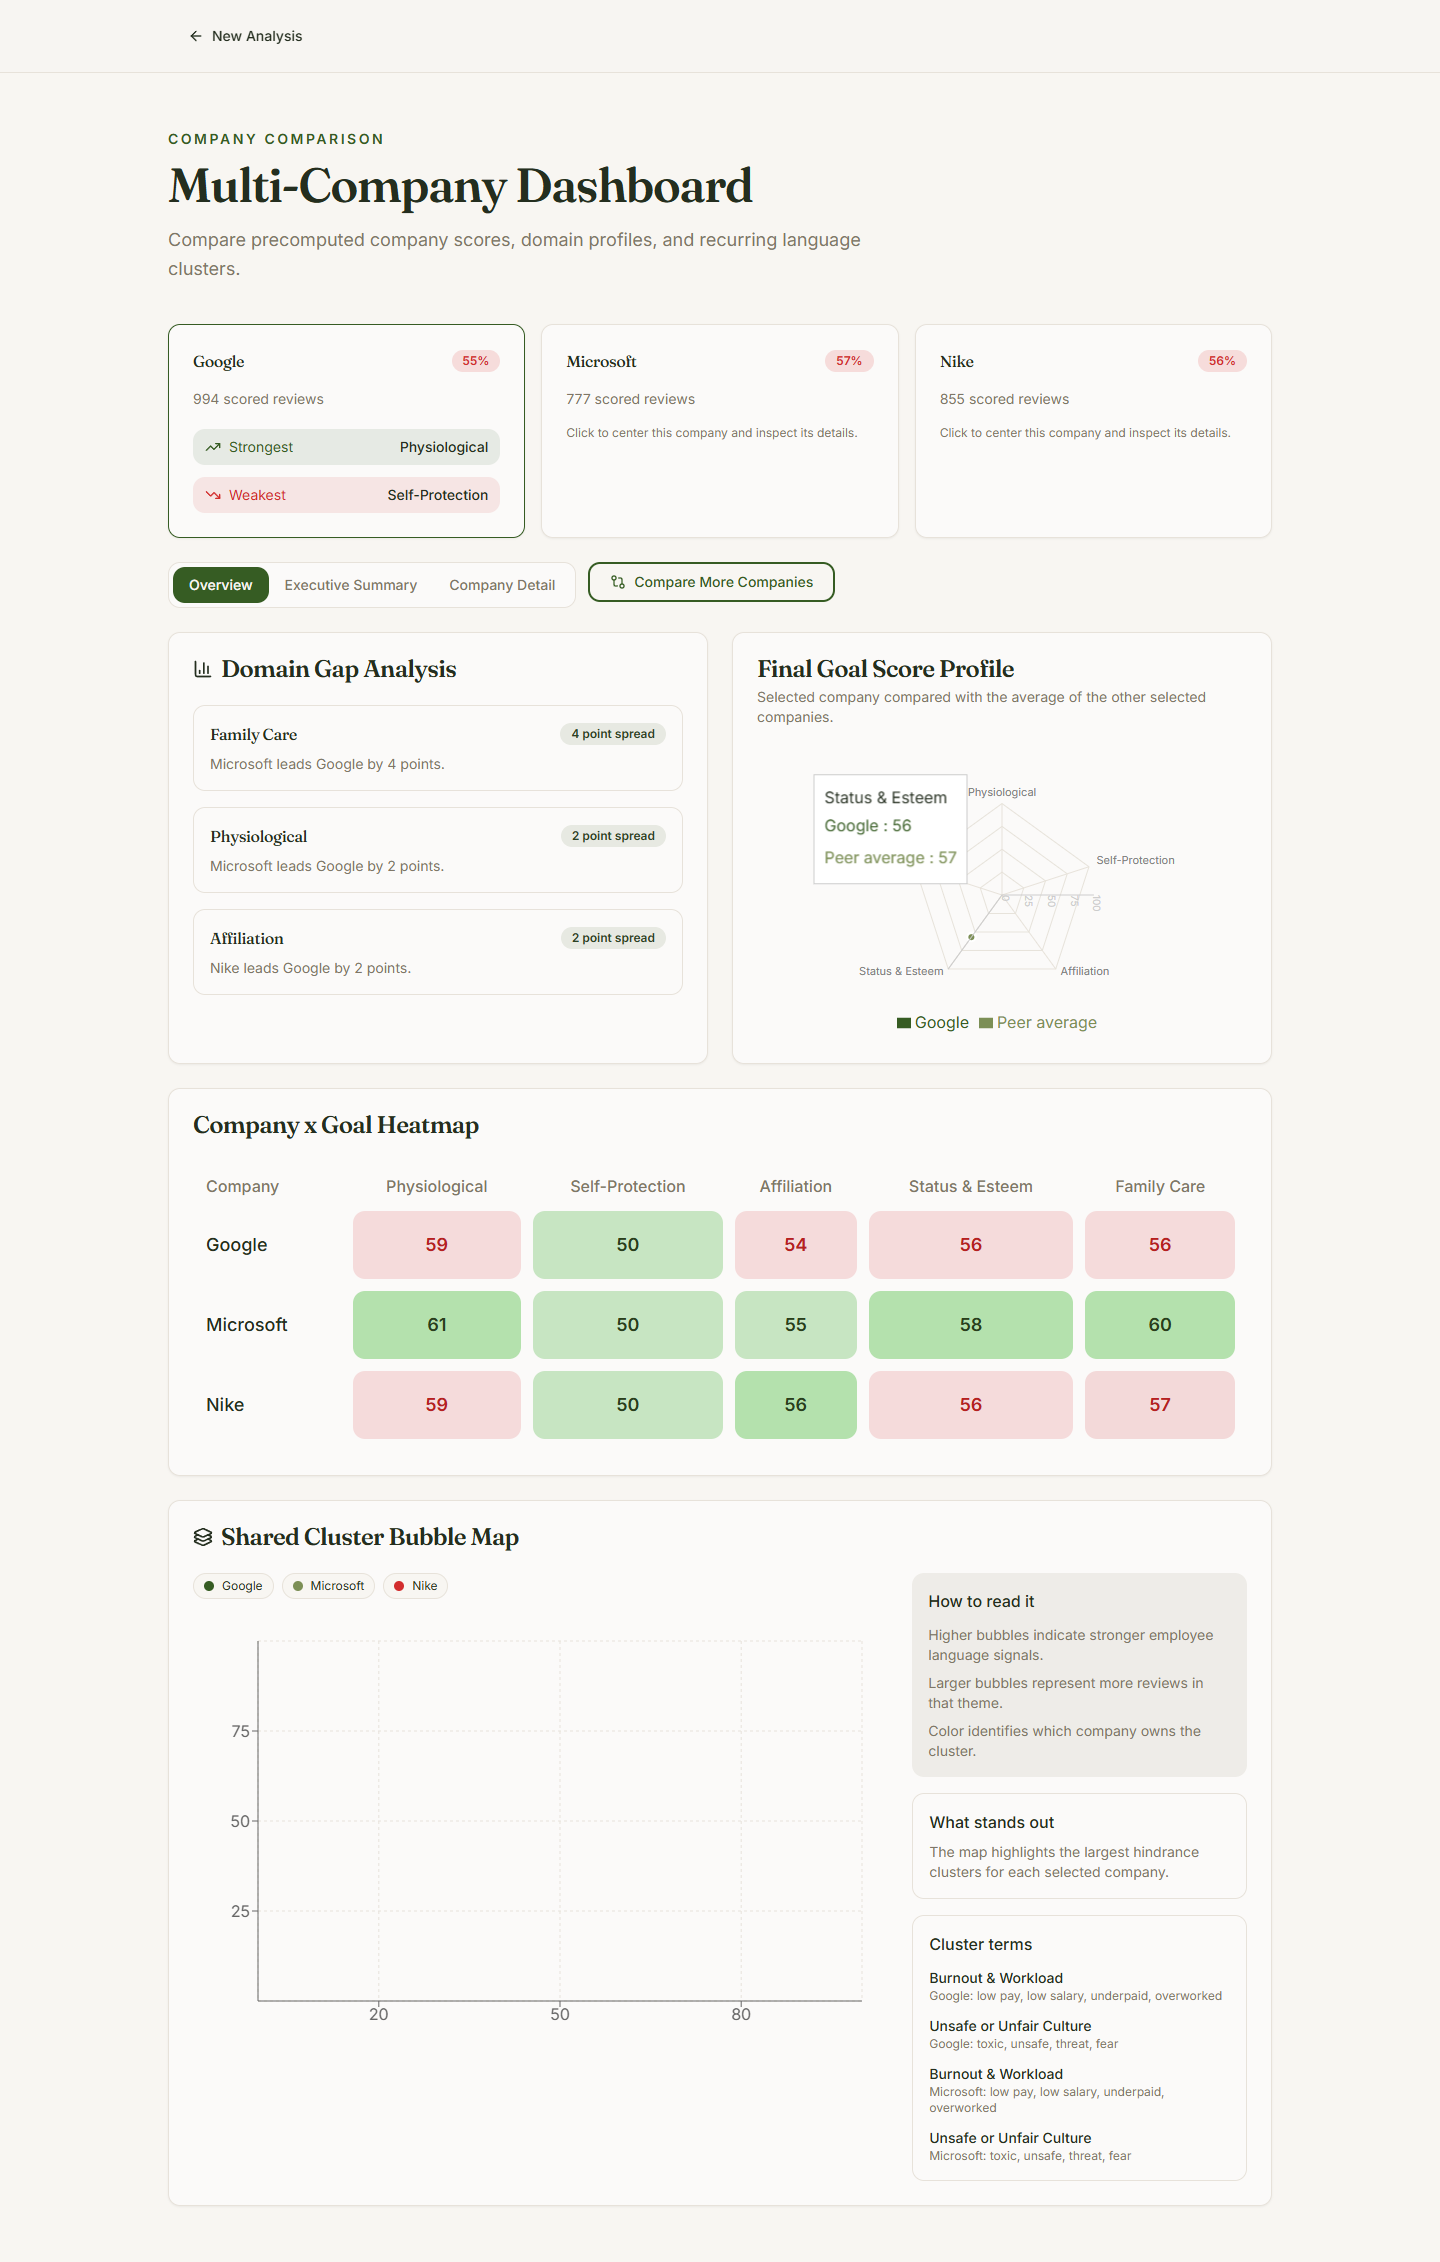
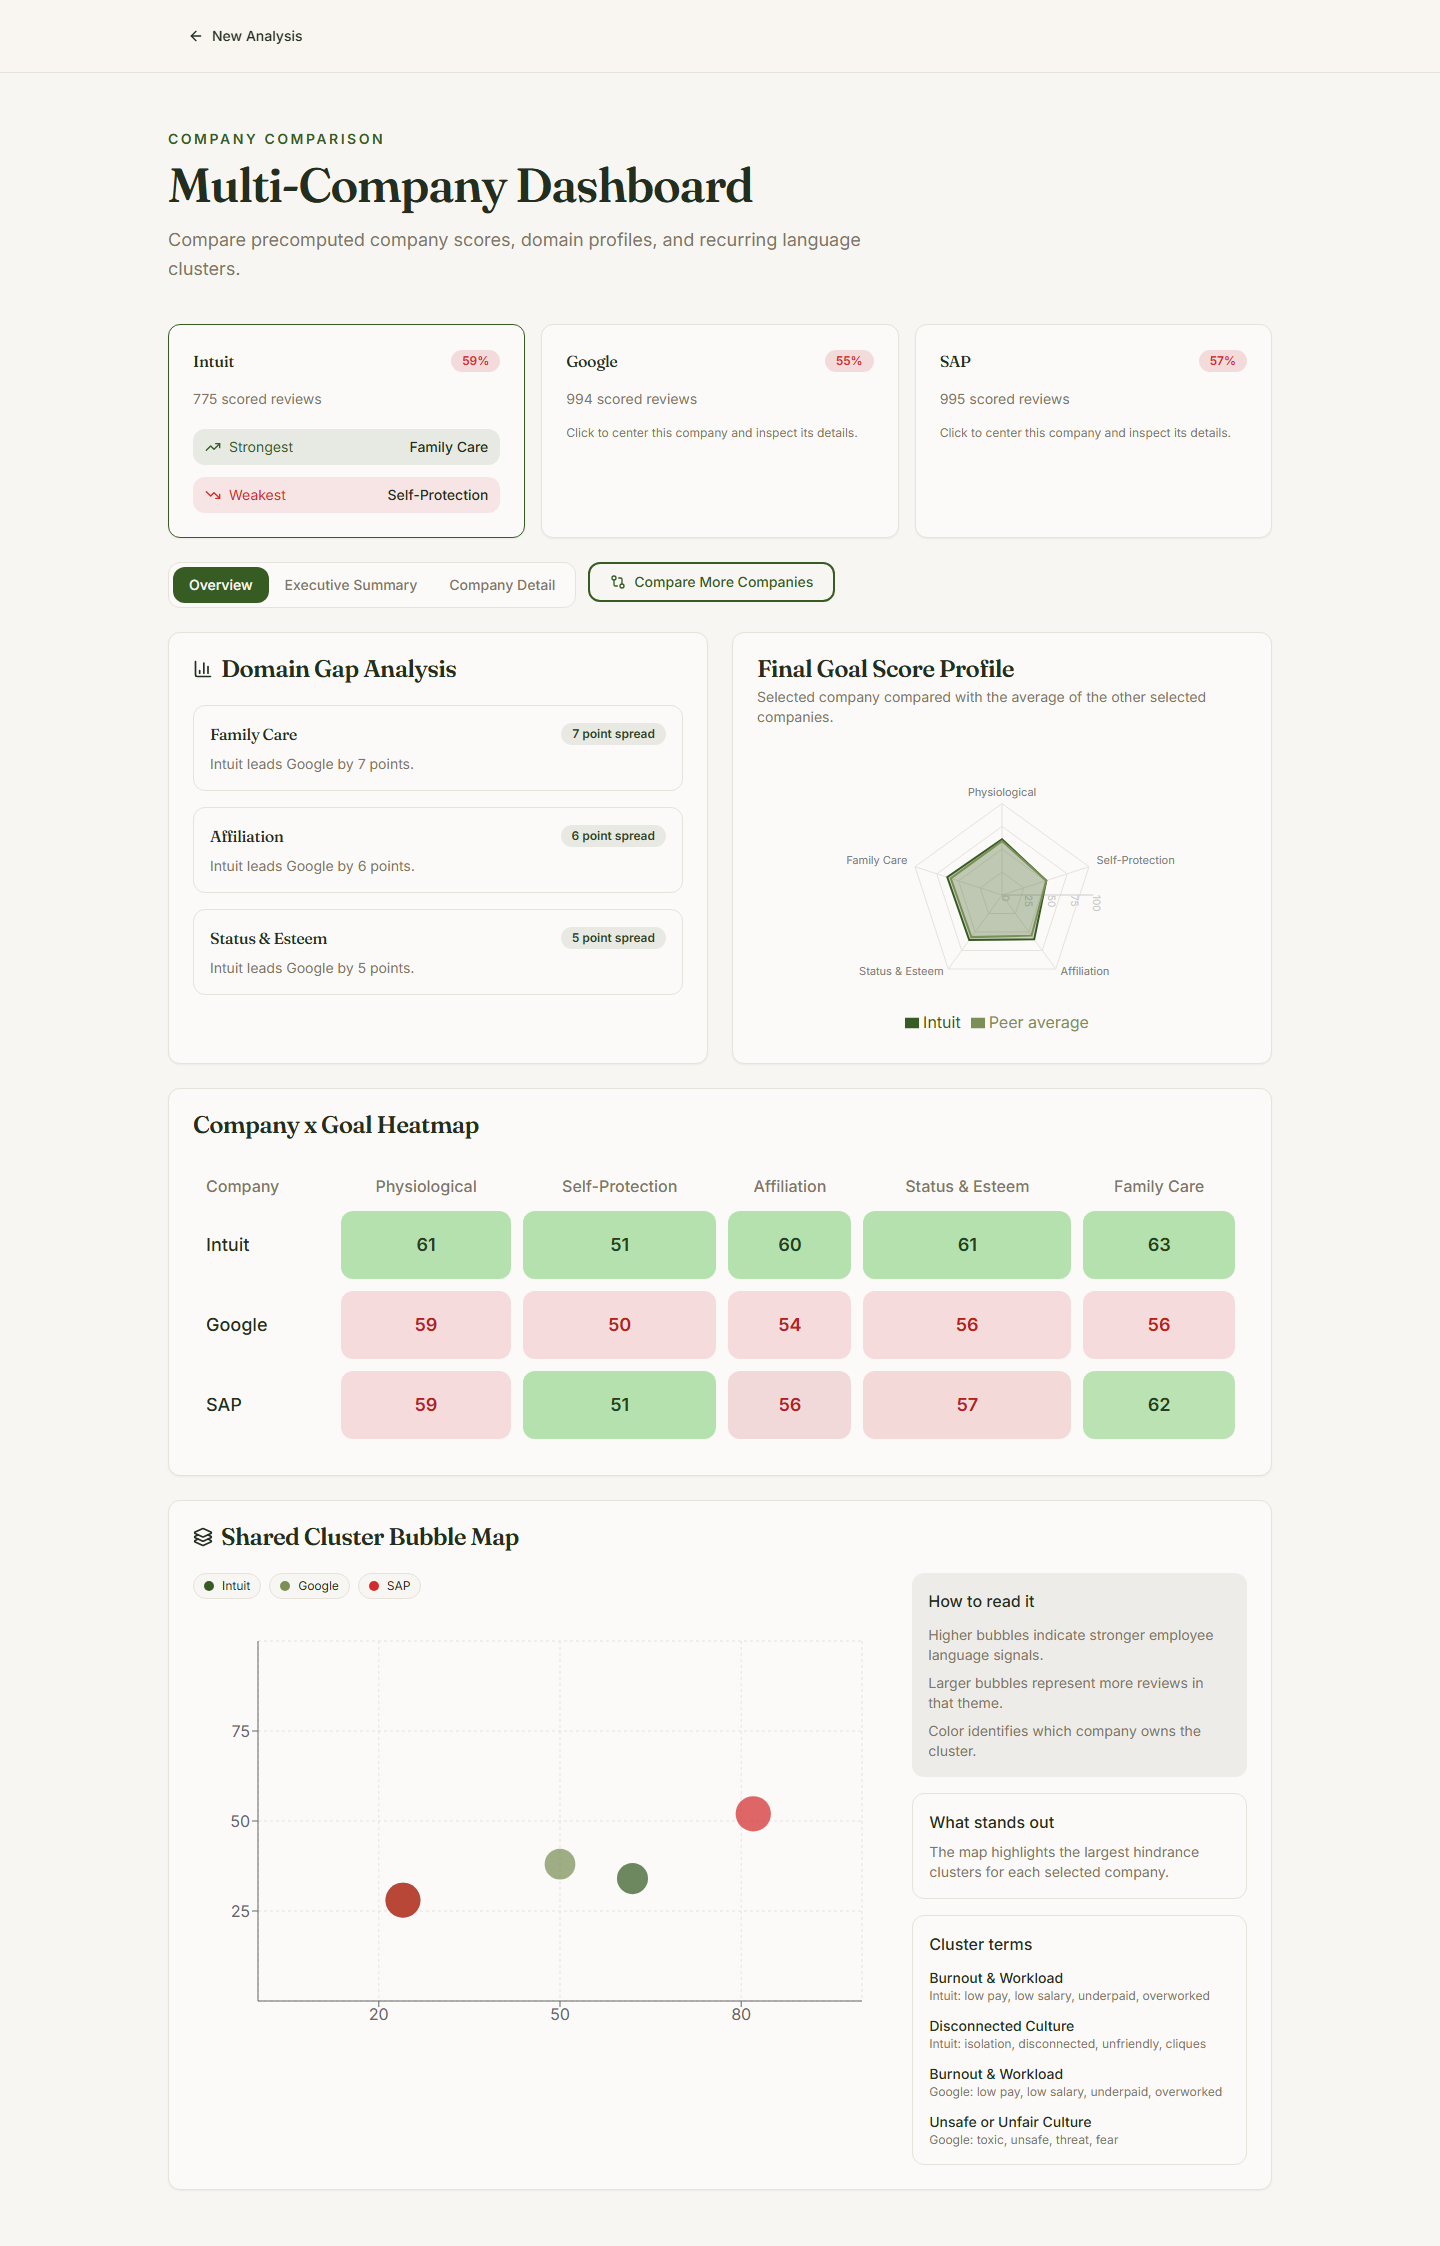
Updated ReadMe

diff --git a/frontend/src/pages/Index.tsx b/frontend/src/pages/Index.tsx
@@ -9,14 +9,10 @@ import { ComparisonResultsPage } from "@/components/ComparisonResultsPage";
 import {
   downloadScoredCompanyFileText,
   generateComparisonRagSummary,
-  downloadJobFileText,
   getScoredCompanyDownloadUrl,
   getScoredCompanyOutputs,
   getScoredCompanyRag,
-  getJobOutputs,
-  getJobStatus,
   sleep,
-  startPipelineJob,
   type ComparisonRagSummary,
 } from "@/lib/backend-api";
 import { AnalysisResult, buildAnalysisResult } from "@/lib/analysis";
@@ -49,100 +45,58 @@ const Index = () => {
     setProcessingStatus("Preparing your company analysis...");
 
     try {
-      try {
-        const cachedOutputs = await getScoredCompanyOutputs(name);
-        const reviewCsvText = await downloadScoredCompanyFileText(
-          cachedOutputs.company_id,
-          "review_scores.csv"
-        );
-        const companyCsvText = await downloadScoredCompanyFileText(
-          cachedOutputs.company_id,
-          "company_scores.csv"
-        );
-        const topicCsvText = cachedOutputs.files.includes("topic_summary.csv")
-          ? await downloadScoredCompanyFileText(cachedOutputs.company_id, "topic_summary.csv")
-          : undefined;
-        const rag = cachedOutputs.files.includes("rag_summary.json")
-          ? await getScoredCompanyRag(cachedOutputs.company_id)
-          : undefined;
-
-        const result = buildAnalysisResult({
-          jobId: `cached-${cachedOutputs.company_id}`,
-          inputCompanyName: name,
-          resolvedCompanyName: cachedOutputs.company_id,
-          reviewCsvText,
-          companyCsvText,
-          topicCsvText,
-          ragSummary: rag?.summary,
-          ragClusters: rag?.clusters,
-          ragInsights: rag?.insights,
-          outputFiles: cachedOutputs.files,
-          downloads: {
-            cleanedReviews: cachedOutputs.files.includes("cleaned_reviews.csv")
-              ? getScoredCompanyDownloadUrl(cachedOutputs.company_id, "cleaned_reviews.csv")
-              : undefined,
-            reviewScores: getScoredCompanyDownloadUrl(cachedOutputs.company_id, "review_scores.csv"),
-            companyScores: getScoredCompanyDownloadUrl(cachedOutputs.company_id, "company_scores.csv"),
-            topicSummary: cachedOutputs.files.includes("topic_summary.csv")
-              ? getScoredCompanyDownloadUrl(cachedOutputs.company_id, "topic_summary.csv")
-              : undefined,
-            topicAssignments: cachedOutputs.files.includes("topic_assignments.csv")
-              ? getScoredCompanyDownloadUrl(cachedOutputs.company_id, "topic_assignments.csv")
-              : undefined,
-          },
-        });
-
-        await sleep(10000);
-        setAnalysis(result);
-        setAppState("results");
-        return;
-      } catch {
-        setProcessingStatus("Analyzing fresh review data...");
-      }
-
-      const run = await startPipelineJob(name);
-      setActiveJobId(run.job_id);
-
-      let finalStatus = null as Awaited<ReturnType<typeof getJobStatus>> | null;
-      for (let attempt = 0; attempt < 360; attempt += 1) {
-        const st = await getJobStatus(run.job_id);
-        finalStatus = st;
-
-        const stage = st.stage?.current ? `Stage: ${st.stage.current}` : "";
-        const msg = st.message || stage || "Pipeline running";
-        setProcessingStatus(msg);
-
-        if (st.status === "succeeded") {
-          break;
-        }
-        if (st.status === "failed") {
-          throw new Error(st.message || "Pipeline failed.");
-        }
-        await sleep(2000);
-      }
-
-      if (!finalStatus || finalStatus.status !== "succeeded") {
-        throw new Error("Pipeline timed out before completion.");
-      }
-
-      const outputs = await getJobOutputs(run.job_id);
-      const reviewCsvText = await downloadJobFileText(run.job_id, "04_score/review_scores.csv");
-      const companyCsvText = await downloadJobFileText(run.job_id, "04_score/company_scores.csv");
+      const cachedOutputs = await getScoredCompanyOutputs(name);
+      const reviewCsvText = await downloadScoredCompanyFileText(
+        cachedOutputs.company_id,
+        "review_scores.csv"
+      );
+      const companyCsvText = await downloadScoredCompanyFileText(
+        cachedOutputs.company_id,
+        "company_scores.csv"
+      );
+      const topicCsvText = cachedOutputs.files.includes("topic_summary.csv")
+        ? await downloadScoredCompanyFileText(cachedOutputs.company_id, "topic_summary.csv")
+        : undefined;
+      const rag = cachedOutputs.files.includes("rag_summary.json")
+        ? await getScoredCompanyRag(cachedOutputs.company_id)
+        : undefined;
 
       const result = buildAnalysisResult({
-        jobId: run.job_id,
+        jobId: `cached-${cachedOutputs.company_id}`,
         inputCompanyName: name,
-        resolvedCompanyName: finalStatus.company_id_resolved,
+        resolvedCompanyName: cachedOutputs.company_id,
         reviewCsvText,
         companyCsvText,
-        outputFiles: outputs.files,
+        topicCsvText,
+        ragSummary: rag?.summary,
+        ragClusters: rag?.clusters,
+        ragInsights: rag?.insights,
+        outputFiles: cachedOutputs.files,
+        downloads: {
+          cleanedReviews: cachedOutputs.files.includes("cleaned_reviews.csv")
+            ? getScoredCompanyDownloadUrl(cachedOutputs.company_id, "cleaned_reviews.csv")
+            : undefined,
+          reviewScores: getScoredCompanyDownloadUrl(cachedOutputs.company_id, "review_scores.csv"),
+          companyScores: getScoredCompanyDownloadUrl(cachedOutputs.company_id, "company_scores.csv"),
+          topicSummary: cachedOutputs.files.includes("topic_summary.csv")
+            ? getScoredCompanyDownloadUrl(cachedOutputs.company_id, "topic_summary.csv")
+            : undefined,
+          topicAssignments: cachedOutputs.files.includes("topic_assignments.csv")
+            ? getScoredCompanyDownloadUrl(cachedOutputs.company_id, "topic_assignments.csv")
+            : undefined,
+        },
       });
 
       await sleep(10000);
       setAnalysis(result);
       setAppState("results");
     } catch (error) {
-      const description = error instanceof Error ? error.message : "Unexpected error.";
+      const description =
+        error instanceof Error && error.message.includes("404")
+          ? `No cached analysis is available for "${name}" yet.`
+          : error instanceof Error
+            ? error.message
+            : "Unexpected error.";
       toast({
         title: "Analysis failed",
         description,

diff --git a/README.md b/README.md
@@ -225,10 +225,6 @@ For normal operation, these RAG commands do not need to be run manually. `pipeli
 - `GET /api/scored-company/{company_id}/outputs` - list downloadable cache files.
 - `GET /api/scored-company/{company_id}/download?path=...` - download cache artifacts.
 - `GET /api/scored-company/{company_id}/rag` - cached RAG summary, cluster, insight, evidence, and profile payloads.
-- `POST /api/run` - queue a cache-mode pipeline job when a precomputed cache is unavailable.
-- `GET /api/job/{job_id}` - job status.
-- `GET /api/job/{job_id}/outputs` - generated job outputs.
-- `GET /api/job/{job_id}/download?path=...` - download job artifacts.
 
 ## Frontend application
 The React dashboard supports:
@@ -240,7 +236,7 @@ The React dashboard supports:
 - Comparison heatmap, domain gap analysis, final goal score profile, shared cluster map, and company detail view.
 - Download links for cleaned reviews, review scores, aggregated scores, and topic clusters.
 
-Cached analyses intentionally show a short loading buffer so the user sees the same processing state as full pipeline runs.
+Cached analyses intentionally show a short loading buffer before rendering results.
 
 ## Results and generated data
 The current cached dataset contains 50 precomputed companies. Each company can include:
@@ -267,9 +263,9 @@ Optional static figures and current frontend captures live under `out/figures/`:
 
 ![Frontend landing](out/figures/frontend_landing.png)
 
-![Microsoft analysis](out/figures/frontend_microsoft_results.png)
+![Current company analysis](out/figures/frontend_microsoft_results.png)
 
-![Company comparison](out/figures/frontend_company_comparison.png)
+![Current company comparison](out/figures/frontend_company_comparison.png)
 
 ## Notes and defaults
 - `company scores/` is designed for deployable cache artifacts; report/log files are not required for serving the dashboard.
